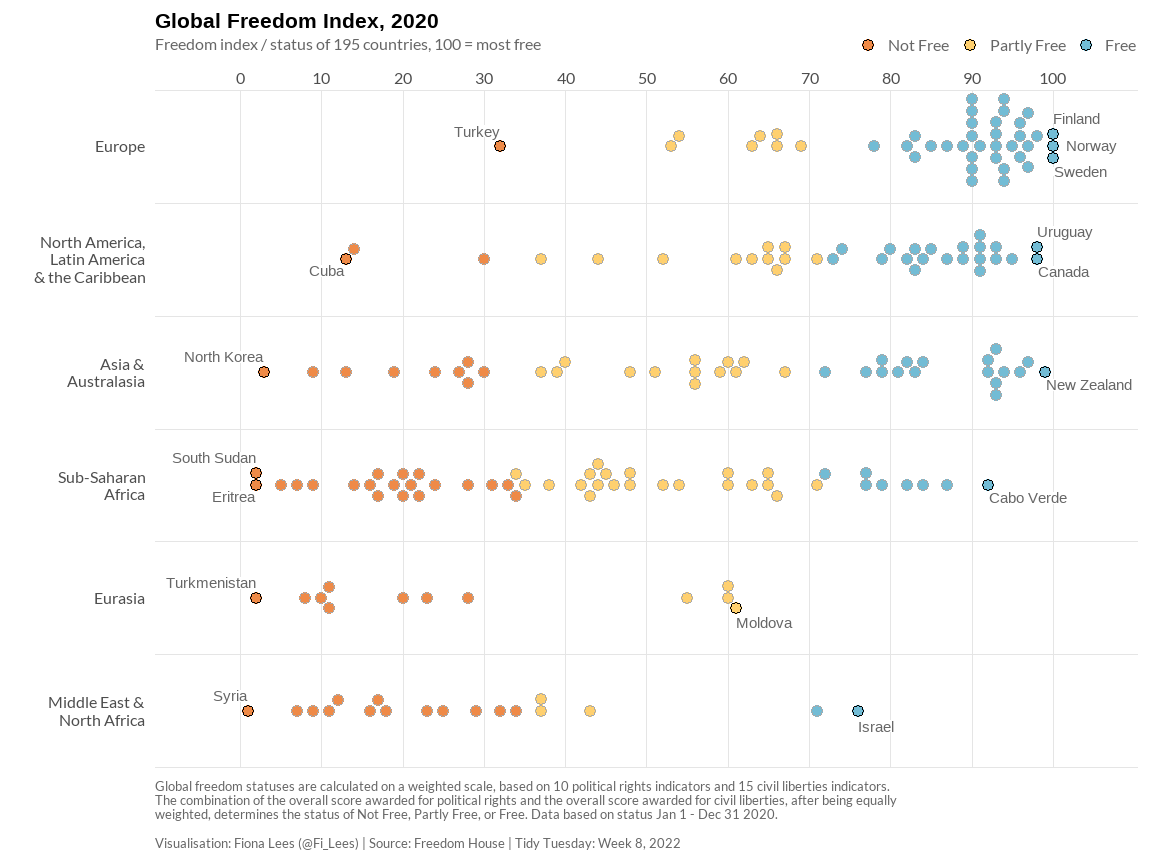
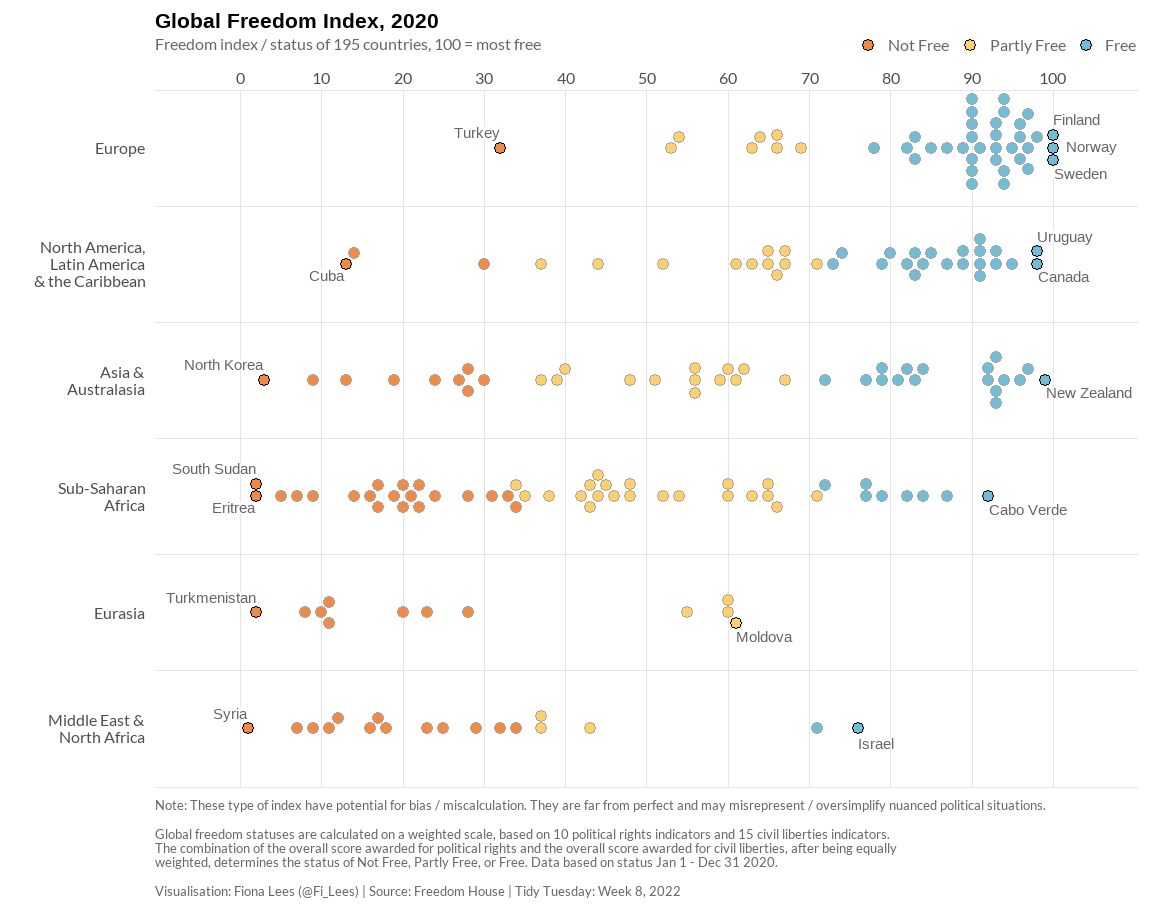
Adding note about data issues

diff --git a/2022/TT_2022_W8_Freedom/README.md b/2022/TT_2022_W8_Freedom/README.md
@@ -1,4 +1,7 @@
 ## Freedom in the World
+
+**Note added 1st Mar 2022**: Index such as the "Freedom Index" have potential for bias and/or miscalculation. Data such as these are far from perfect and may misrepresent nuanced political situations or oversimplify difficult to record/measure political nuance.  
+
 The [data](https://freedomhouse.org/report/freedom-world) this week comes from [Freedom House](https://freedomhouse.org/). It provides freedom index scores and freedom statuses for 195 countries and 15 territories. Global freedom statuses are calculated on a weighted scale, based on 10 political rights indicators and 15 civil liberties indicators.The combination of the overall score awarded for political rights and the overall score awarded for civil liberties, after being equally weighted, determines a status of Not Free, Partly Free, or Free. More information on the methodology is provided [here](https://freedomhouse.org/reports/freedom-world/freedom-world-research-methodology).  
 
 [Arthur Cheib](https://github.com/ArthurCheib/analytical-politics-project/blob/main/data/tidy-data-fh-un.csv) kindly made the dataset available to Tidy Tuesday. However, after spending a bit of time reading about the data and how it's collected, I decided to pull a fuller dataset directly from the Freedom House website. This was mainly so I could use the overall index scores in my analysis rather than the separate ratings for civil liberties and political rights.  
@@ -490,7 +493,7 @@ p_final <- countries_2020 %>%
     y = "",
     colour = "",
     fill = "",
-    caption = "Global freedom statuses are calculated on a weighted scale, based on 10 political rights indicators and 15 civil liberties indicators.\nThe combination of the overall score awarded for political rights and the overall score awarded for civil liberties, after being equally\nweighted, determines the status of Not Free, Partly Free, or Free. Data based on status Jan 1 - Dec 31 2020.\n \nVisualisation: Fiona Lees (@Fi_Lees) | Source: Freedom House | Tidy Tuesday: Week 8, 2022"
+    caption = "Note: These type of index have potential for bias / miscalculation. They are far from perfect and may misrepresent / oversimplify nuanced political situations.\n \nGlobal freedom statuses are calculated on a weighted scale, based on 10 political rights indicators and 15 civil liberties indicators.\nThe combination of the overall score awarded for political rights and the overall score awarded for civil liberties, after being equally\nweighted, determines the status of Not Free, Partly Free, or Free. Data based on status Jan 1 - Dec 31 2020.\n \nVisualisation: Fiona Lees (@Fi_Lees) | Source: Freedom House | Tidy Tuesday: Week 8, 2022"
     )
 
 p_final
@@ -547,8 +550,8 @@ sessionInfo()
 ##  [4] httr_1.4.2          tools_4.1.2         backports_1.4.1    
 ##  [7] bslib_0.3.1         utf8_1.2.2          R6_2.5.1           
 ## [10] rpart_4.1-15        vipor_0.4.5         Hmisc_4.6-0        
-## [13] DBI_1.1.2           colorspace_2.0-2    nnet_7.3-16        
-## [16] withr_2.4.3         tidyselect_1.1.1    gridExtra_2.3      
+## [13] DBI_1.1.2           colorspace_2.0-3    nnet_7.3-16        
+## [16] withr_2.4.3         tidyselect_1.1.2    gridExtra_2.3      
 ## [19] rematch_1.0.1       curl_4.3.2          compiler_4.1.2     
 ## [22] textshaping_0.3.6   cli_3.2.0           rvest_1.0.2        
 ## [25] htmlTable_2.4.0     xml2_1.3.3          sass_0.4.0         
@@ -558,18 +561,18 @@ sessionInfo()
 ## [37] htmltools_0.5.2     highr_0.9           dbplyr_2.1.1       
 ## [40] fastmap_1.1.0       htmlwidgets_1.5.4   rlang_1.0.1        
 ## [43] readxl_1.3.1        rstudioapi_0.13     farver_2.1.0       
-## [46] jquerylib_0.1.4     generics_0.1.2      jsonlite_1.7.3     
+## [46] jquerylib_0.1.4     generics_0.1.2      jsonlite_1.8.0     
 ## [49] magrittr_2.0.2      Formula_1.2-4       Matrix_1.4-0       
 ## [52] Rcpp_1.0.8          munsell_0.5.0       fansi_1.0.2        
-## [55] lifecycle_1.0.1     stringi_1.7.6       yaml_2.2.2         
+## [55] lifecycle_1.0.1     stringi_1.7.6       yaml_2.3.5         
 ## [58] snakecase_0.11.0    grid_4.1.2          crayon_1.5.0       
 ## [61] lattice_0.20-45     haven_2.4.3         splines_4.1.2      
 ## [64] hms_1.1.1           knitr_1.37          pillar_1.7.0       
-## [67] reprex_2.0.1        glue_1.6.1          evaluate_0.14      
+## [67] reprex_2.0.1        glue_1.6.2          evaluate_0.15      
 ## [70] latticeExtra_0.6-29 data.table_1.14.2   modelr_0.1.8       
 ## [73] vctrs_0.3.8         png_0.1-7           tzdb_0.2.0         
 ## [76] cellranger_1.1.0    gtable_0.3.0        assertthat_0.2.1   
 ## [79] xfun_0.29           janitor_2.1.0       broom_0.7.12       
-## [82] ragg_1.2.1          survival_3.2-13     beeswarm_0.4.0     
+## [82] ragg_1.2.2          survival_3.2-13     beeswarm_0.4.0     
 ## [85] cluster_2.1.2       ellipsis_0.3.2
 ```
